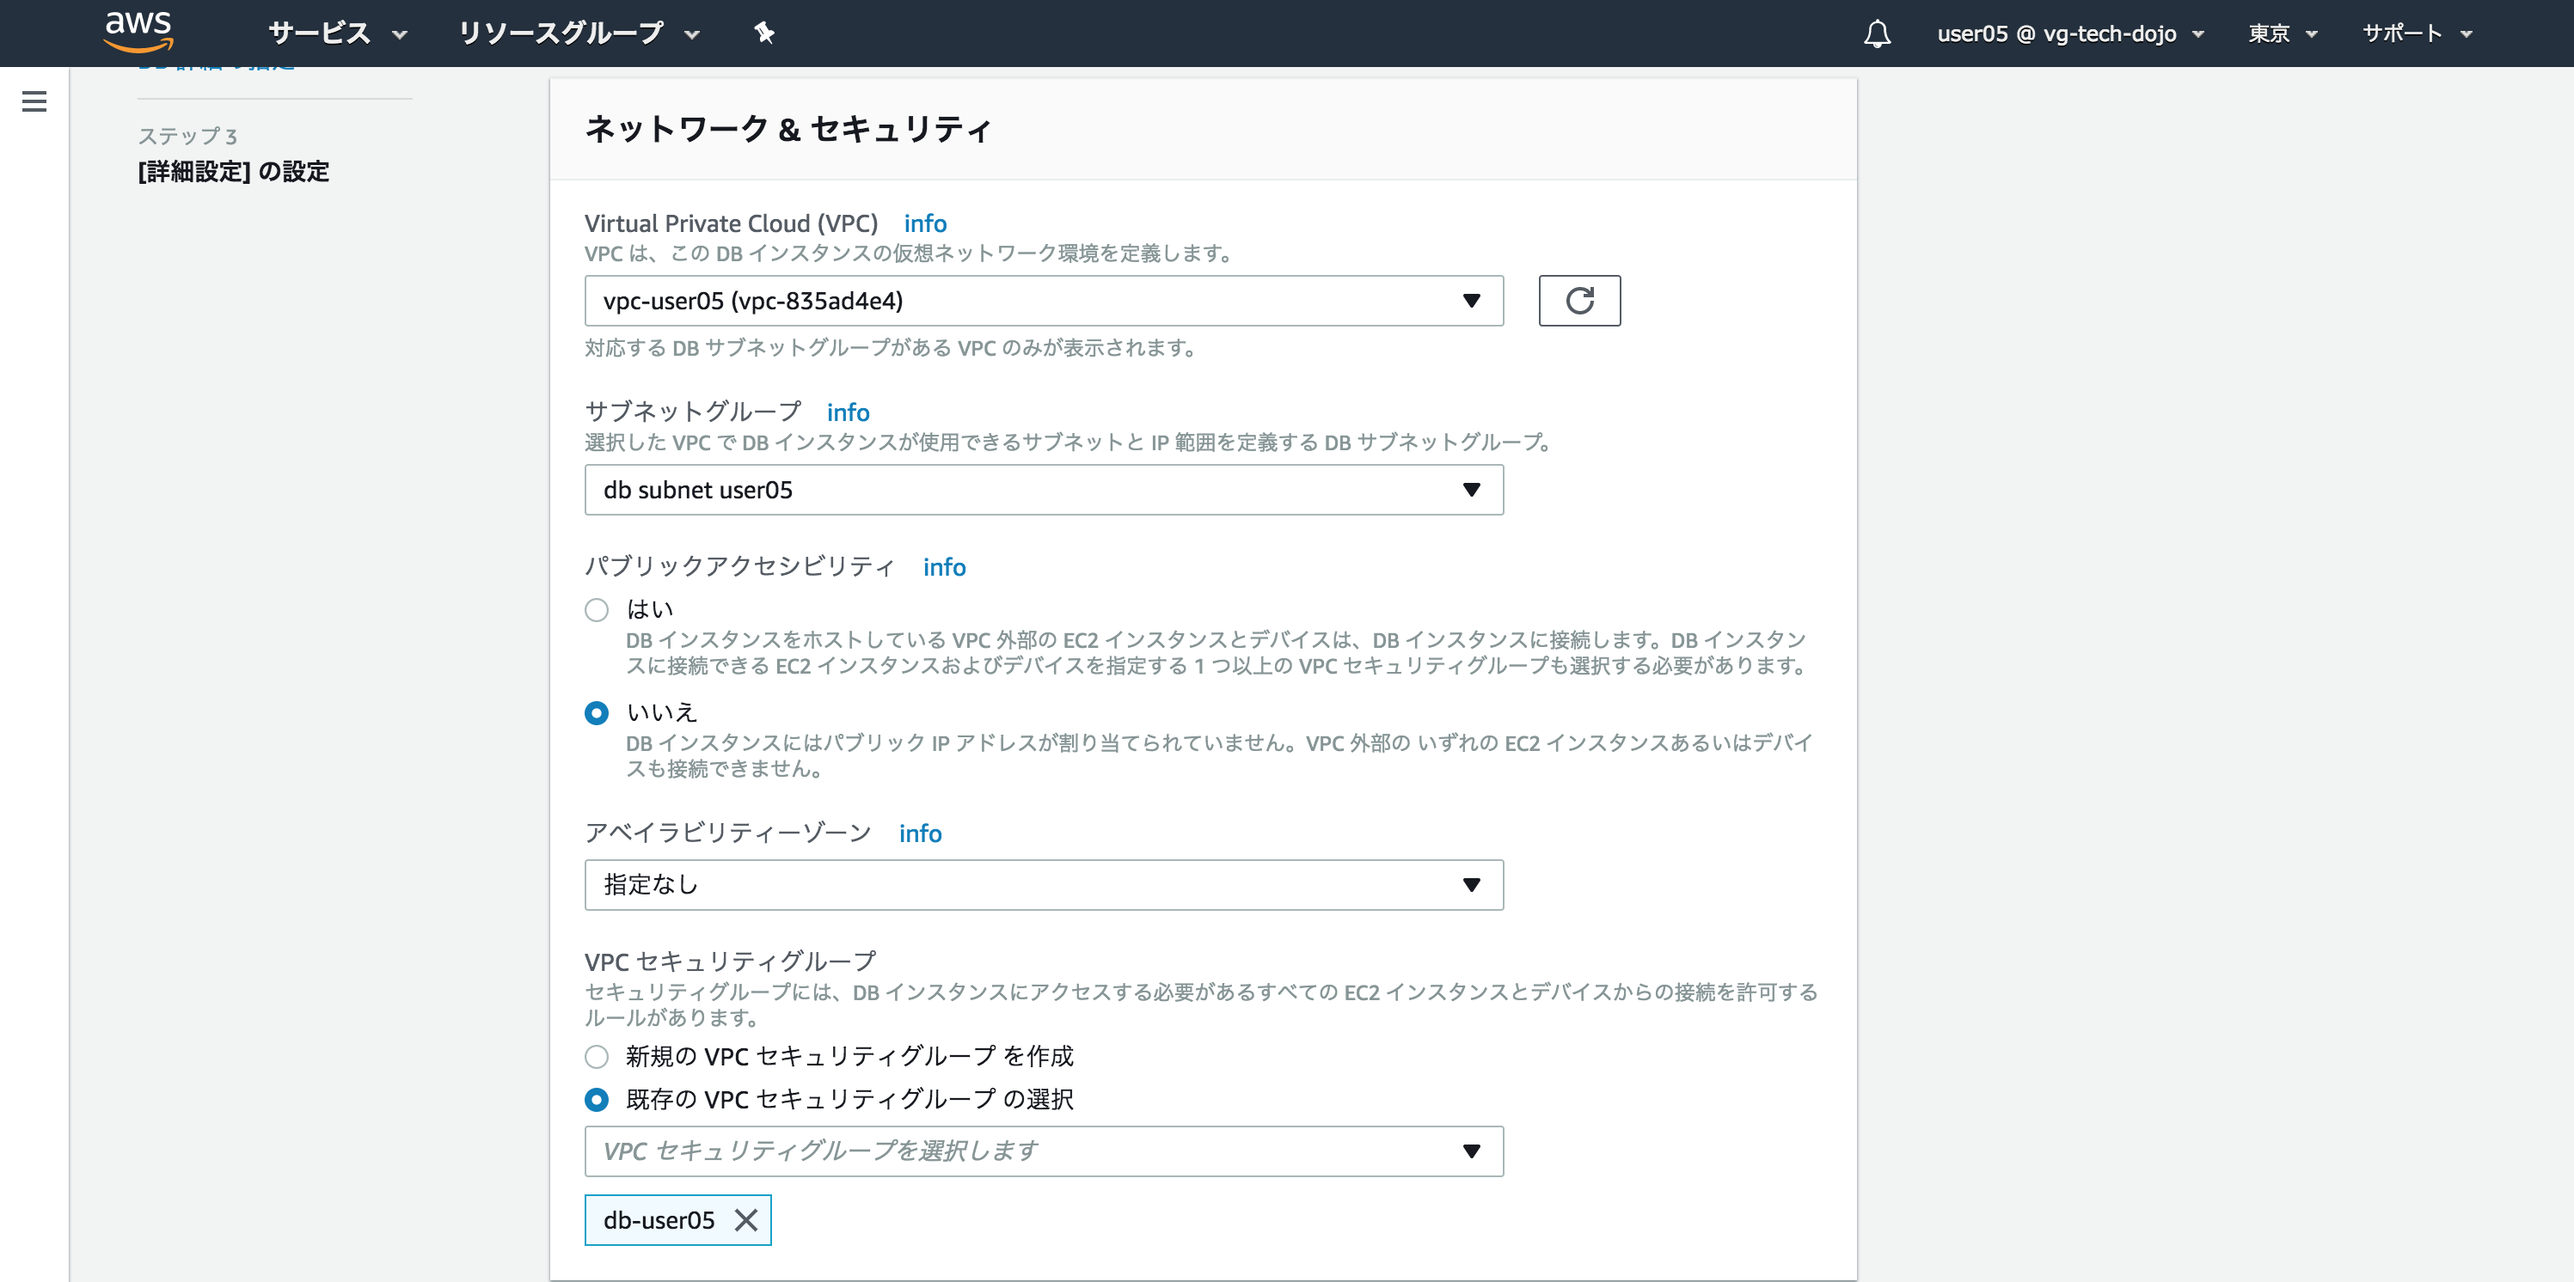
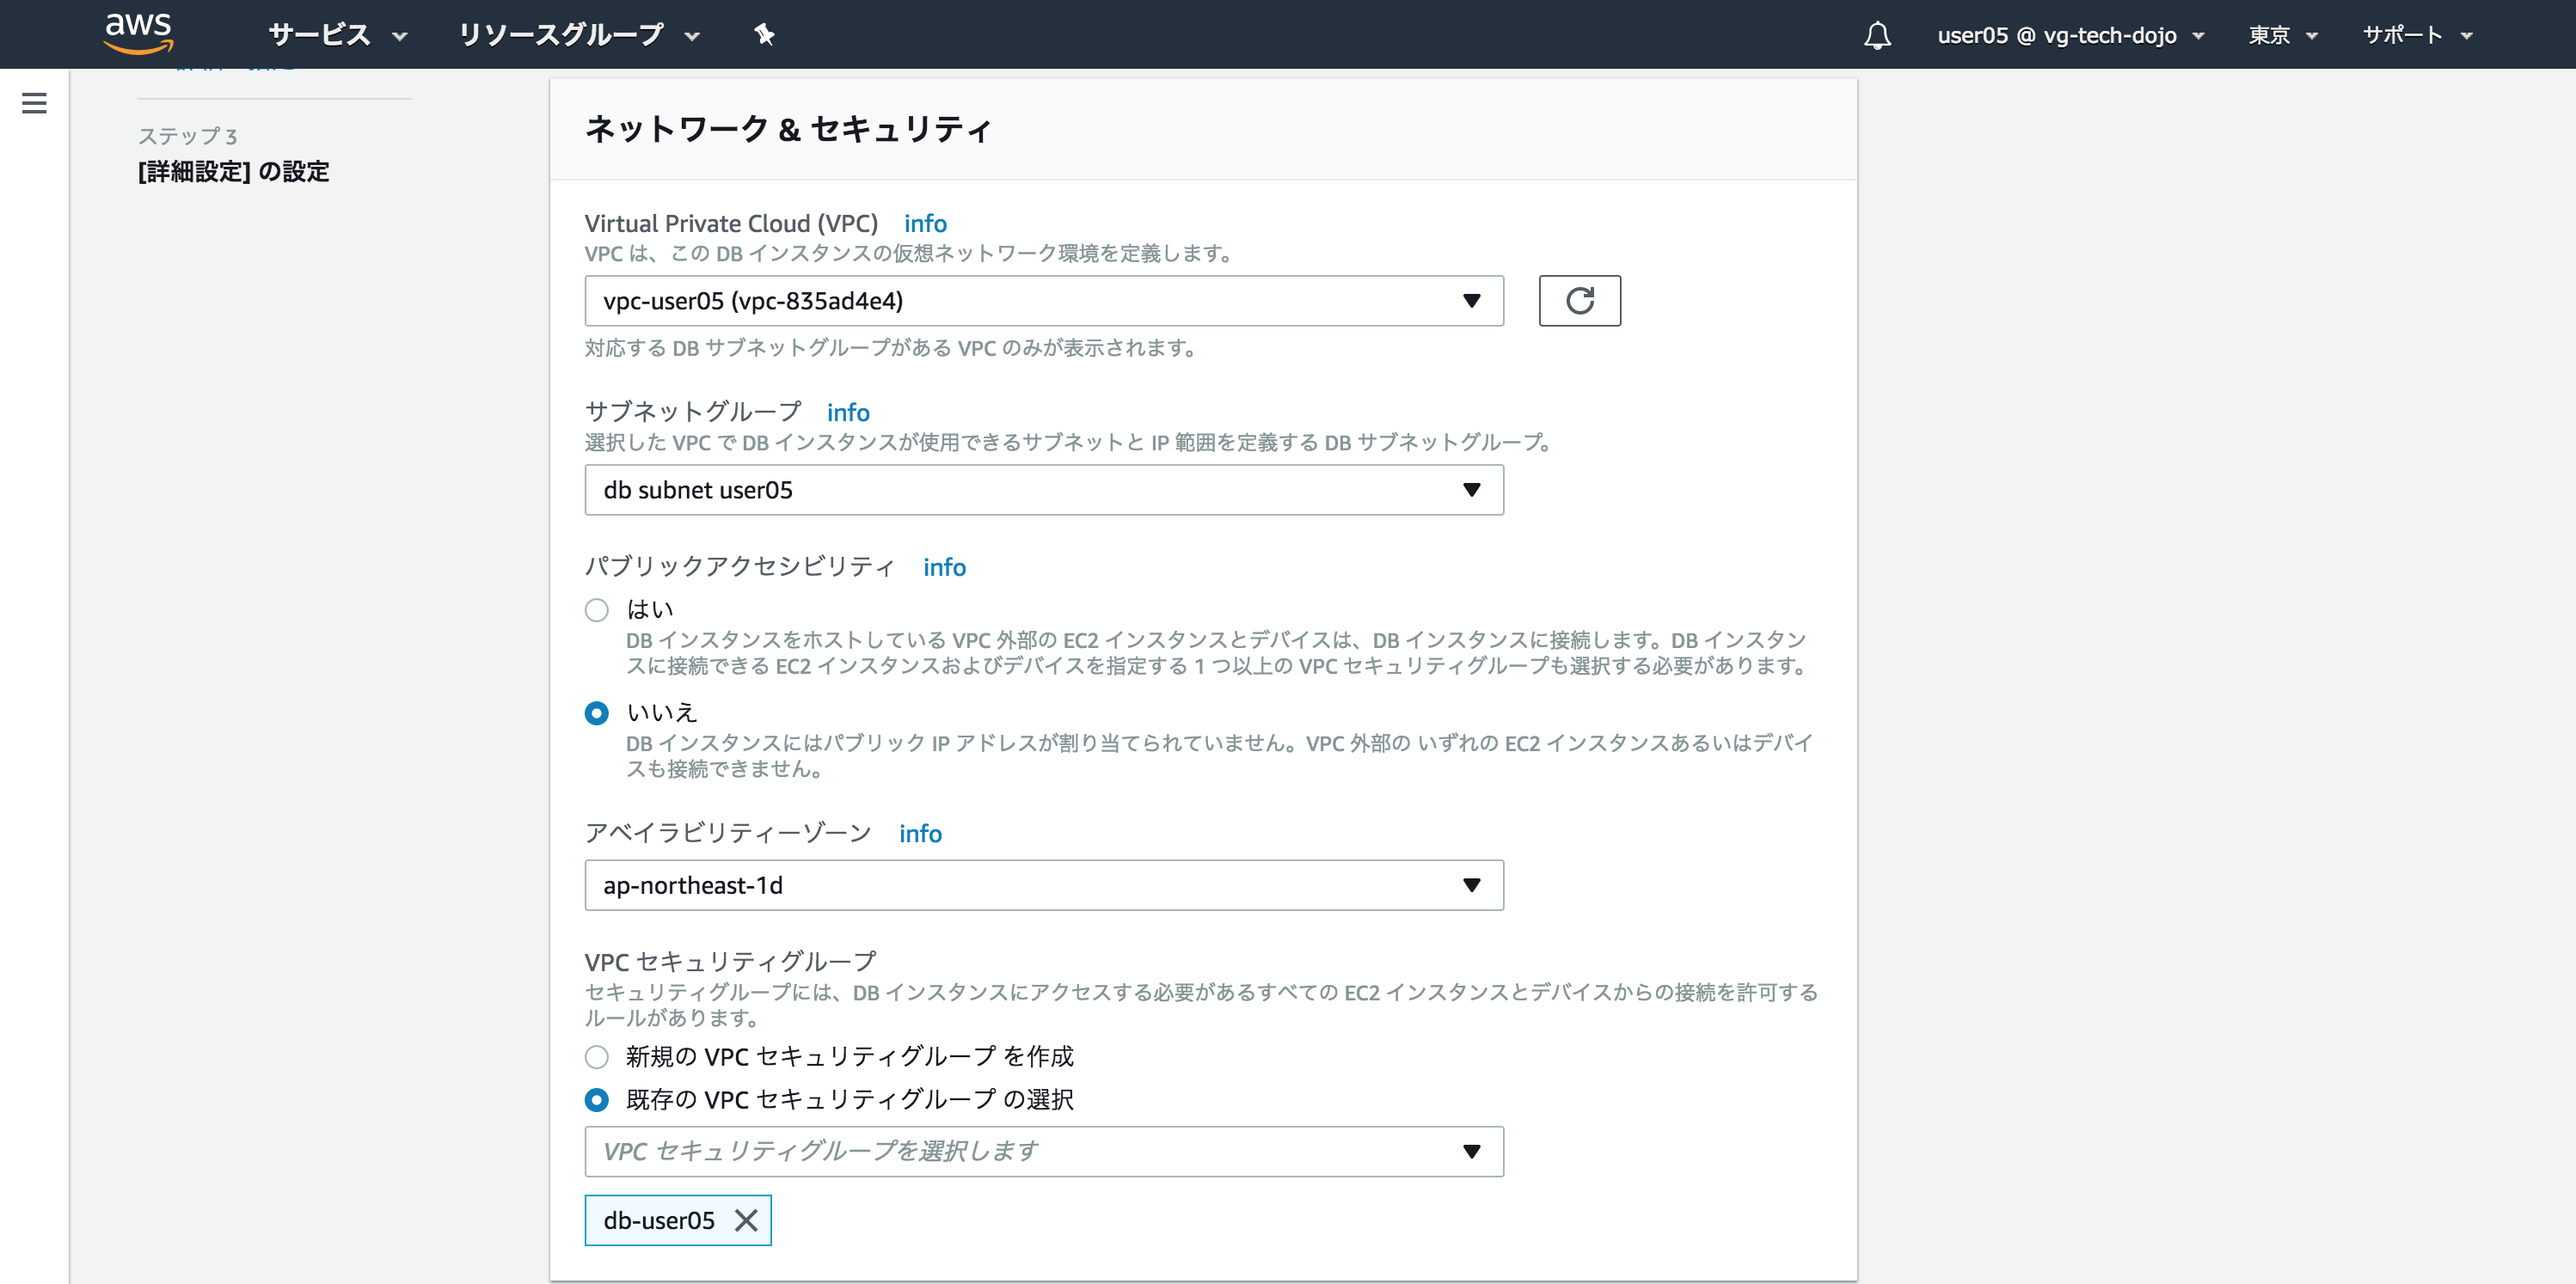
commit

diff --git a/Step-2.md b/Step-2.md
@@ -102,3 +102,42 @@ RDS(Relational Database Service)、Auroraについて調べてみましょう(10
 ![rds-8](./images/step-2/rds-8.png "RDS8")
 
 ----
+
+## 接続確認
+**EC2サーバにSSH接続し、EC2サーバからAuroraに接続してみましょう。また作成したAuroraインスタンスが意図したセグメントに配置されているかも確認しましょう。**
+
+```
+$ ssh -i 1day-userXX.pem -o StrictHostKeyChecking=no ec2-user@ec2-XXXXXX.com
+[ec2-user@ip-10-0-0-65 ~]$
+```
+
+**クラスタエンドポイントを使用してAuroraに接続しましょう。読み書きの権限についても確認しましょう。**
+
+**注意 wp-userXX-cluster.cluster-cenae7eyijpr.ap-northeast-1.rds.amazonaws.comは各自のクラスタエンドポイントに直すこと**
+
+```
+$ mysql -u admin -p -hwp-userXX-cluster.cluster-cenae7eyijpr.ap-northeast-1.rds.amazonaws.com
+mysql> select @read_only;
++------------+
+| @read_only |
++------------+
+| NULL       |
++------------+
+1 row in set (0.00 sec)
+```
+
+**読み込みエンドポイントを使用してAuroraに接続しましょう。読み書きの権限についても確認しましょう。**
+
+**注意 wp-userXX-cluster.cluster-ro-cenae7eyijpr.ap-northeast-1.rds.amazonaws.comは各自の読み込みエンドポイントに直すこと**
+
+```
+$ mysql -u admin -p -hwp-userXX-cluster.cluster-ro-cenae7eyijpr.ap-northeast-1.rds.amazonaws.com
+
+mysql> select @read_only;
++------------+
+| @read_only |
++------------+
+| NULL       |
++------------+
+1 row in set (0.00 sec)
+```

diff --git a/README.md b/README.md
@@ -1,2 +1,17 @@
 # AWS-Hands-On
+このハンズオンでは主にAWSマネジメントコンソールを使用し以下について学びます
+
+[Step-1](./Step-1.md)で学ぶこと
+
+1. VPCを使用したプライベートネットワークの作成
+2. プライベートネットワーク内にAMIを使用しEC2インスタンスの作成
+3. 作成したEC2インスタンスを用いてLinuxサーバのインフラ基礎
+
+[Step-2](./Step2.md)で学ぶこと
+
+1. Linuxミドルウェアレベルでの垂直分散技法(データベースをEC2から分離)
+2. VPCを使用した複数のプライベートネットワークの利用(ネットワーク1 インターネットゲートウェイとしてのパブリックサブネット、ネットワーク2 プライベートサブネット)
+3. Amazon Auroraの作成
+
+[Step-3](./Step3.md)で学ぶこと
 
